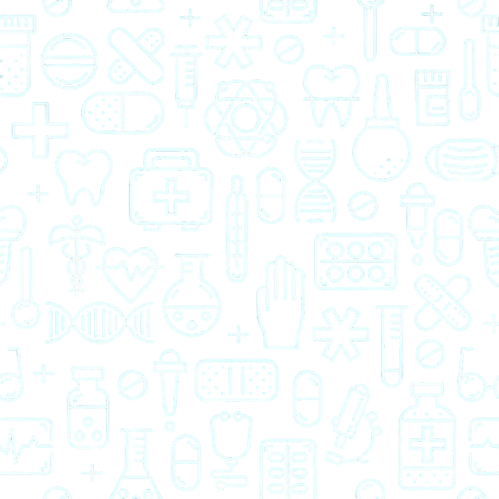
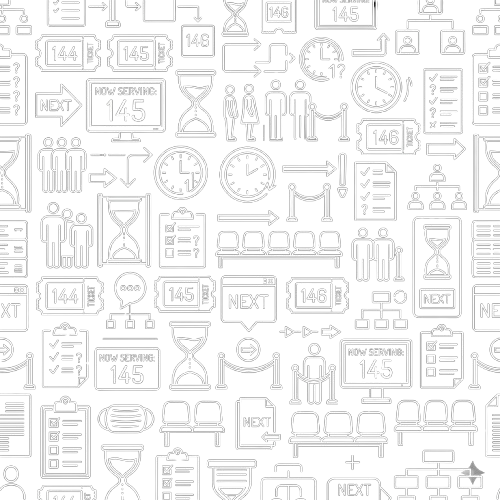
edit translate json file

Changed region(s): [[0.0, 0.0, 1.0, 1.0], [0.992, 0.9619, 1.0, 1.0]]

diff --git a/lib/features/clinic_details/presentation/widgets/clinic_statistics_widget.dart b/lib/features/clinic_details/presentation/widgets/clinic_statistics_widget.dart
@@ -1,5 +1,6 @@
 import 'package:clinic_app/core/utils/app_size.dart';
 import 'package:clinic_app/features/clinic_details/domain/entites/clinic_statistics_entity.dart';
+import 'package:easy_localization/easy_localization.dart';
 import 'package:flutter/material.dart';
 import 'package:flutter_screenutil/flutter_screenutil.dart';
 
@@ -25,7 +26,7 @@ class ClinicStatisticsWidget extends StatelessWidget {
         crossAxisAlignment: CrossAxisAlignment.start,
         children: [
           Text(
-            'إحصائيات العيادة',
+            'clinic.statistics.title'.tr(),
             style: theme.textTheme.titleMedium?.copyWith(
               fontWeight: FontWeight.bold,
             ),
@@ -46,7 +47,7 @@ class ClinicStatisticsWidget extends StatelessWidget {
                         flex: 3,
                         child: _StatCard(
                           icon: Icons.people_outline,
-                          label: 'الزيارات',
+                          label: 'clinic.statistics.visits'.tr(),
                           value: statistics.totalVisits,
                           color: accentColor,
                           isBig: true,
@@ -58,7 +59,7 @@ class ClinicStatisticsWidget extends StatelessWidget {
                         flex: 2,
                         child: _StatCard(
                           icon: Icons.medical_services_outlined,
-                          label: 'الأطباء',
+                          label: 'clinic.statistics.specialists'.tr(),
                           value: statistics.totalDoctors,
                           color: Colors.green,
                         ),
@@ -78,7 +79,7 @@ class ClinicStatisticsWidget extends StatelessWidget {
                         flex: 2,
                         child: _StatCard(
                           icon: Icons.event_available,
-                          label: 'الحجوزات',
+                          label: 'clinic.statistics.bookings'.tr(),
                           value: statistics.totalBookings,
                           color: Colors.blue,
                         ),
@@ -89,7 +90,7 @@ class ClinicStatisticsWidget extends StatelessWidget {
                         flex: 3,
                         child: _StatCard(
                           icon: Icons.thumb_up_outlined,
-                          label: 'الرضا',
+                          label: 'clinic.statistics.satisfaction'.tr(),
                           value: statistics.satisfactionRate,
                           color: Colors.orange,
                           isBig: true,

diff --git a/lib/features/clinic_details/data/repositories/clinic_repository_impl.dart b/lib/features/clinic_details/data/repositories/clinic_repository_impl.dart
@@ -4,6 +4,7 @@ import '../../../../core/api/model/endpoints.dart';
 import '../../../../core/api/model/http_method.dart';
 import '../../../../core/errors/exceptions.dart';
 import '../../../../core/errors/failures.dart';
+import '../../../../core/errors/error_handler.dart';
 import '../../domain/entites/appointment_request_entity.dart';
 import '../../domain/entites/clinic_entities.dart';
 import '../../domain/entites/time_slot_entity.dart';
@@ -34,12 +35,8 @@ class ClinicRepositoryImpl implements ClinicRepository {
       final clinicModel = ClinicModel.fromJson(data);
       await localDataSource.cacheClinic(clinicModel);
       return Right(clinicModel);
-    } on ServerException catch (e) {
-      return Left(ServerFailure(e.message));
-    } on NetworkException catch (e) {
-      return Left(NetworkFailure(e.message));
-    } catch (e) {
-      return Left(UnexpectedFailure(e.toString()));
+    } catch (e, st) {
+      return Left(ErrorHandler.handleException(e, st));
     }
   }
 
@@ -54,12 +51,8 @@ class ClinicRepositoryImpl implements ClinicRepository {
       final List<dynamic> slotsData = response['data'] ?? response;
       final slots = slotsData.map((json) => TimeSlotModel.fromJson(json)).toList();
       return Right(slots);
-    } on ServerException catch (e) {
-      return Left(ServerFailure(e.message));
-    } on NetworkException catch (e) {
-      return Left(NetworkFailure(e.message));
-    } catch (e) {
-      return Left(UnexpectedFailure(e.toString()));
+    } catch (e, st) {
+      return Left(ErrorHandler.handleException(e, st));
     }
   }
 
@@ -71,12 +64,8 @@ class ClinicRepositoryImpl implements ClinicRepository {
         url: '/clinicals/$clinicId/favorite',
       );
       return const Right(true);
-    } on ServerException catch (e) {
-      return Left(ServerFailure(e.message));
-    } on NetworkException catch (e) {
-      return Left(NetworkFailure(e.message));
-    } catch (e) {
-      return Left(UnexpectedFailure(e.toString()));
+    } catch (e, st) {
+      return Left(ErrorHandler.handleException(e, st));
     }
   }
 
@@ -89,12 +78,8 @@ class ClinicRepositoryImpl implements ClinicRepository {
         body: request.toJson(),
       );
       return const Right(null);
-    } on ServerException catch (e) {
-      return Left(ServerFailure(e.message));
-    } on NetworkException catch (e) {
-      return Left(NetworkFailure(e.message));
-    } catch (e) {
-      return Left(UnexpectedFailure(e.toString()));
+    } catch (e, st) {
+      return Left(ErrorHandler.handleException(e, st));
     }
   }
 }

diff --git a/lib/features/my_booking/presentation/view/booking_detail_screen.dart b/lib/features/my_booking/presentation/view/booking_detail_screen.dart
@@ -223,7 +223,7 @@ class _AppointmentInfoSection extends StatelessWidget {
         BookingDetailRow(
           icon: Icons.calendar_today_outlined,
           label: 'bookings.date'.tr(),
-          value: _formatDate(booking.date),
+          value: _formatDate(context, booking.date),
         ),
 
         if (showQueueInfo && booking.waitTurns != null && booking.turnNumber != null) ...[
@@ -239,7 +239,7 @@ class _AppointmentInfoSection extends StatelessWidget {
                     style: Theme.of(context).textTheme.bodySmall?.copyWith(color: Theme.of(context).hintColor),
                   ),
                   Text(
-                    _formatTime(booking.time),
+                    _formatTime(context, booking.time),
                     style: TextStyle(fontWeight: FontWeight.bold, fontSize: 14.sp),
                   ),
                 ],
@@ -254,28 +254,29 @@ class _AppointmentInfoSection extends StatelessWidget {
           BookingDetailRow(
             icon: Icons.access_time_rounded,
             label: 'bookings.time'.tr(),
-            value: _formatTime(booking.time),
+            value: _formatTime(context, booking.time),
           ),
         ],
       ],
     );
   }
-  String _formatDate(String date) {
+  String _formatDate(BuildContext context, String date) {
     try {
-      return DateFormat('EEEE، d MMMM yyyy', 'ar').format(DateTime.parse(date));
+      final locale = context.locale.languageCode;
+      final pattern = locale == 'ar' ? 'EEEE، d MMMM yyyy' : 'EEEE, d MMMM yyyy';
+      return DateFormat(pattern, locale).format(DateTime.parse(date));
     } catch (_) {
       return date;
     }
   }
 
-  String _formatTime(String time) {
+  String _formatTime(BuildContext context, String time) {
     try {
       final parts = time.split(':');
       final hour = int.parse(parts[0]);
-      final minute = parts[1];
-      final suffix = hour >= 12 ? 'م' : 'ص';
-      final hour12 = hour > 12 ? hour - 12 : (hour == 0 ? 12 : hour);
-      return '$hour12:$minute $suffix';
+      final minute = int.parse(parts[1]);
+      final dt = DateTime(2000, 1, 1, hour, minute);
+      return DateFormat.jm(context.locale.languageCode).format(dt);
     } catch (_) {
       return time;
     }

diff --git a/lib/features/my_booking/presentation/view/booking_list_screen.dart b/lib/features/my_booking/presentation/view/booking_list_screen.dart
@@ -355,13 +355,13 @@ class _CardDetails extends StatelessWidget {
           BookingDetailRow(
             icon: Icons.calendar_today_outlined,
             label: 'bookings.date'.tr(),
-            value: _formatDate(booking.date),
+            value: _formatDate(context, booking.date),
           ),
           SizedBox(height: SizeApp.s8),
           BookingDetailRow(
             icon: Icons.access_time_rounded,
             label: 'bookings.time'.tr(),
-            value: _formatTime(booking.time),
+            value: _formatTime(context, booking.time),
           ),
           if (!booking.isPending &&
               booking.waitTurns != null &&
@@ -392,22 +392,23 @@ class _CardDetails extends StatelessWidget {
     );
   }
 
-  String _formatDate(String date) {
+  String _formatDate(BuildContext context, String date) {
     try {
-      return DateFormat('EEE، d MMM yyyy', 'ar').format(DateTime.parse(date));
+      final locale = context.locale.languageCode;
+      final pattern = locale == 'ar' ? 'EEE، d MMM yyyy' : 'EEE, d MMM yyyy';
+      return DateFormat(pattern, locale).format(DateTime.parse(date));
     } catch (_) {
       return date;
     }
   }
 
-  String _formatTime(String time) {
+  String _formatTime(BuildContext context, String time) {
     try {
       final parts = time.split(':');
       final hour = int.parse(parts[0]);
-      final minute = parts[1];
-      final suffix = hour >= 12 ? 'م' : 'ص';
-      final hour12 = hour > 12 ? hour - 12 : (hour == 0 ? 12 : hour);
-      return '$hour12:$minute $suffix';
+      final minute = int.parse(parts[1]);
+      final dt = DateTime(2000, 1, 1, hour, minute);
+      return DateFormat.jm(context.locale.languageCode).format(dt);
     } catch (_) {
       return time;
     }

diff --git a/lib/features/favourite/data/repositories/favourite_repository_impl.dart b/lib/features/favourite/data/repositories/favourite_repository_impl.dart
@@ -3,6 +3,7 @@ import 'dart:developer';
 
 import 'package:dartz/dartz.dart';
 
+import '../../../../core/errors/error_handler.dart';
 import '../../../../core/errors/failures.dart';
 import '../../../home/domain/entities/clinic_summary.dart';
 import '../../domain/repositories/favourite_repository.dart';
@@ -95,7 +96,7 @@ class FavouriteRepositoryImpl implements FavouriteRepository {
       }
       _emit();
 
-      return Left(_mapError(e));
+      return Left(ErrorHandler.handleException(e, st));
     }
   }
 
@@ -113,7 +114,7 @@ class FavouriteRepositoryImpl implements FavouriteRepository {
 
       return Right(clinics);
     } catch (e, st) {
-      return Left(_mapError(e));
+      return Left(ErrorHandler.handleException(e, st));
     }
   }
 
@@ -125,8 +126,5 @@ class FavouriteRepositoryImpl implements FavouriteRepository {
     }
   }
 
-  Failure _mapError(dynamic e) {
-    // Adjust to your actual Failure subclass hierarchy
-    return ServerFailure(e.toString());
-  }
+
 }

diff --git a/lib/features/clinic_details/presentation/widgets/sections/tab_bar_section.dart b/lib/features/clinic_details/presentation/widgets/sections/tab_bar_section.dart
@@ -2,6 +2,7 @@
 import 'package:clinic_app/features/clinic_details/presentation/cubit/clinic_details_cubit.dart';
 import 'package:flutter/material.dart';
 import 'package:flutter_bloc/flutter_bloc.dart';
+import 'package:easy_localization/easy_localization.dart';
 import '../../../domain/entites/clinic_entities.dart';
 import '../tab_bar_delegate.dart';
 
@@ -42,11 +43,11 @@ class TabBarSection extends StatelessWidget {
       onTap: (index) {
         context.read<ClinicDetailsCubit>().changeTab(index);
       },
-      tabs: const [
-        Tab(text: 'الحجز'),
-        Tab(text: 'الخدمات'),
-        Tab(text: 'التقييمات'),
-        Tab(text: 'عن العيادة'),
+      tabs: [
+        Tab(text: 'clinic.tabs.booking'.tr()),
+        Tab(text: 'clinic.services.title'.tr()),
+        Tab(text: 'clinic.tabs.reviews'.tr()),
+        Tab(text: 'clinic.info.about'.tr()),
       ],
     );
   }

diff --git a/lib/features/my_booking/presentation/widgets/follow_up_widgets.dart b/lib/features/my_booking/presentation/widgets/follow_up_widgets.dart
@@ -222,7 +222,7 @@ class _TimelineItem extends StatelessWidget {
                         ),
                         SizedBox(width: 4.w),
                         Text(
-                          _formatDate(followUp.date),
+                          _formatDate(context, followUp.date),
                           style: theme.textTheme.bodySmall?.copyWith(
                             fontWeight: FontWeight.w600,
                           ),
@@ -275,9 +275,9 @@ class _TimelineItem extends StatelessWidget {
     );
   }
 
-  String _formatDate(String date) {
+  String _formatDate(BuildContext context, String date) {
     try {
-      return DateFormat('d MMM yyyy', 'ar').format(DateTime.parse(date));
+      return DateFormat('d MMM yyyy', context.locale.languageCode).format(DateTime.parse(date));
     } catch (_) {
       return date;
     }

diff --git a/lib/features/settings/presentation/widgets/account_section.dart b/lib/features/settings/presentation/widgets/account_section.dart
@@ -35,13 +35,7 @@ class AccountSection extends StatelessWidget {
                 Navigator.pushNamed(context, Routes.forgotPassword,arguments: UserRepository().currentUser!.email);
               },
             ),
-            _divider(),
-            SettingsItem(
-              icon: Icons.calendar_today_outlined,
-              title: 'settings.account.bookings'.tr(),
-              subtitle: 'settings.account.bookings_sub'.tr(),
-              onTap: () {},
-            ),
+
           ],
         ),
       ],

diff --git a/lib/core/api/model/endpoints.dart b/lib/core/api/model/endpoints.dart
@@ -1,8 +1,8 @@
 // ==================== endpoints.dart ====================
 class Endpoints {
   // Base URL
-  static const String baseUrl = 'https://clinical.khorogat.com/api';
-  static const String policyLink = 'https://clinical.khorogat.com/policy';
+  static const String baseUrl = 'https://careline-001-site1.dtempurl.com/api';
+  static const String policyLink = 'https://careline-001-site1.dtempurl.com/policy';
 
   // Auth
   static const String login = '/auth/login';

diff --git a/lib/features/home/data/model/clinic_model.dart b/lib/features/home/data/model/clinic_model.dart
@@ -30,7 +30,7 @@ class ClinicsHomeModel extends ClinicSummary {
       location: json['location'] as String? ?? '',
       rating: json['rating']?.toString() ?? '0',
       isOpen: json['is_open'] as bool? ?? true,
-      doctorsCount: json['doctors_count'] as String? ?? '0',
+      doctorsCount: json['doctors_count']?.toString() ?? '0',
       isFavorite: json['is_favourite'] as bool? ?? false,
       //is_favourite
     );

diff --git a/lib/main.dart b/lib/main.dart
@@ -60,7 +60,7 @@ class MyApp extends StatelessWidget {
 
   String get _initialRoute {
     if (!isConfigurationDone) return Routes.configuration;
-    if (!isOnBoarding)        return Routes.onboarding;
+    // if (!isOnBoarding)        return Routes.onboarding;
     return UserRepository().isLoggedIn ? Routes.dashBoard : Routes.auth;
   }
 
